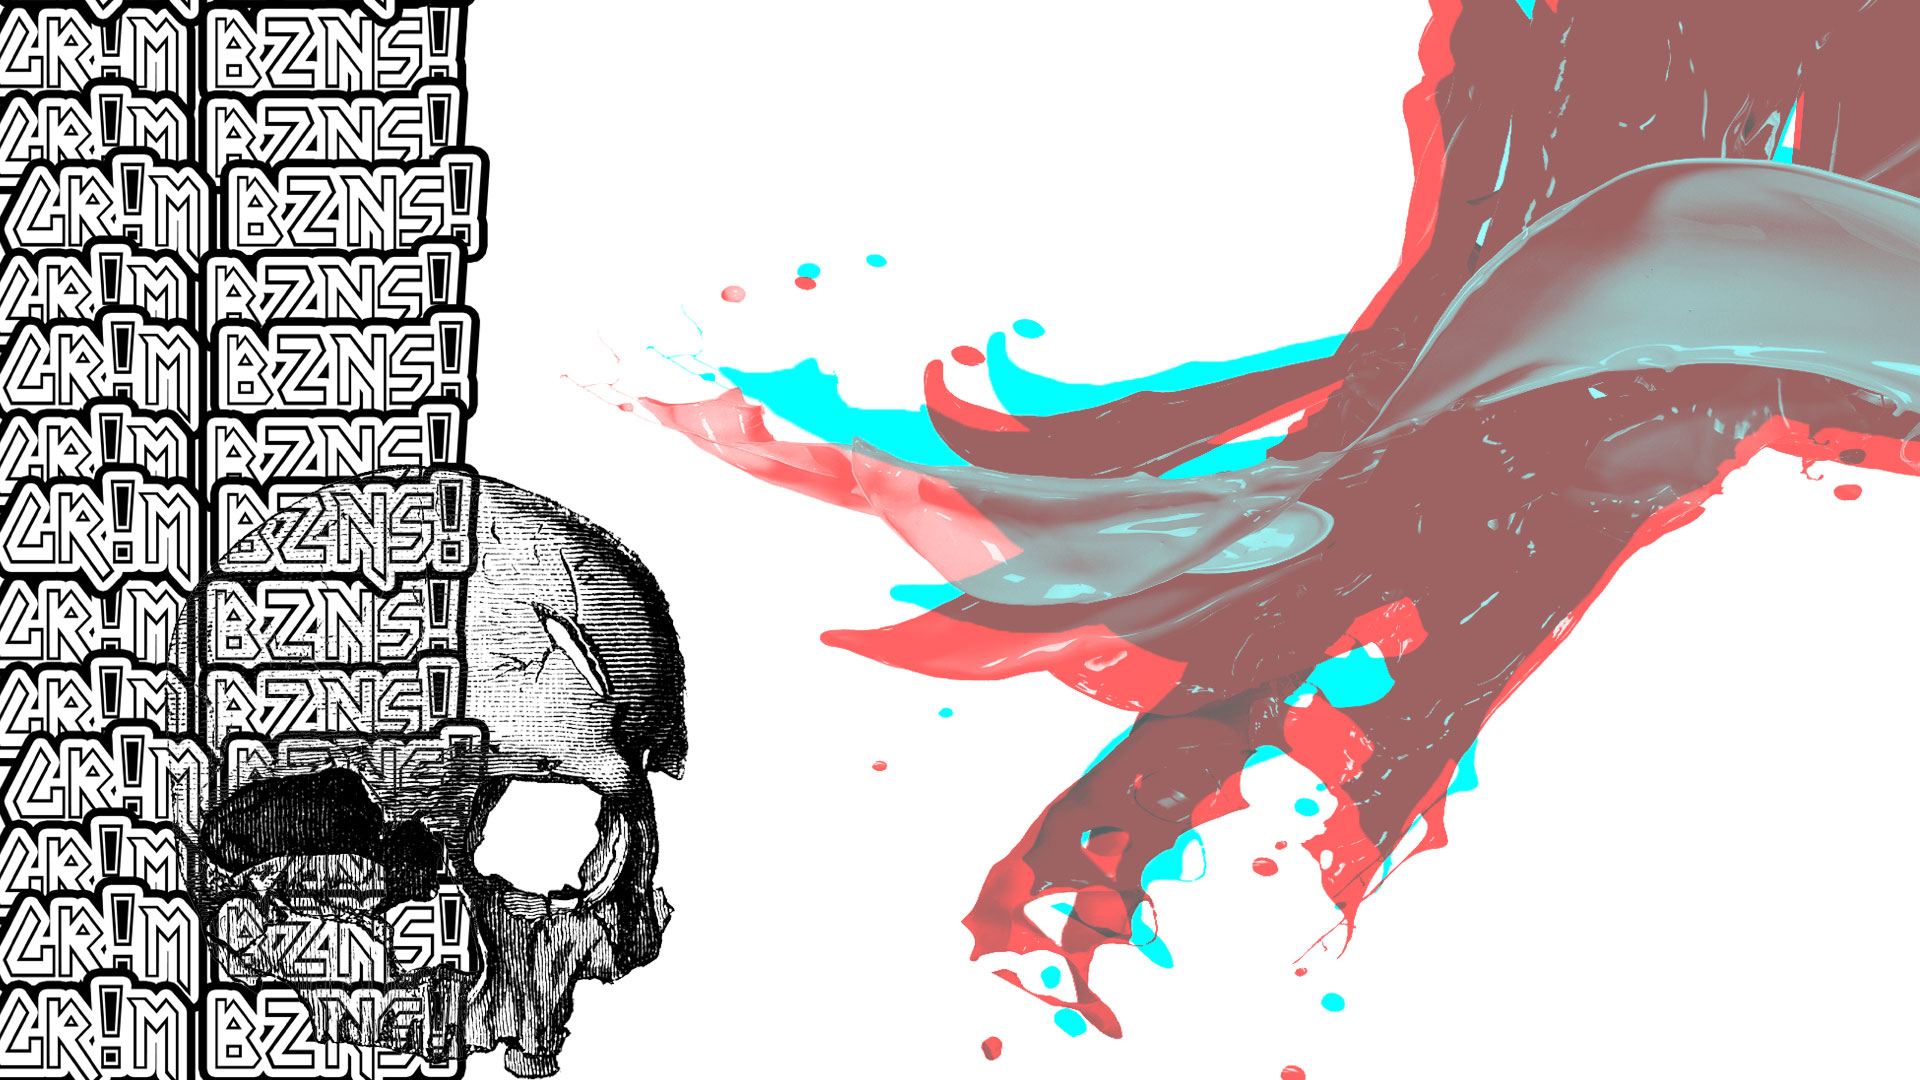
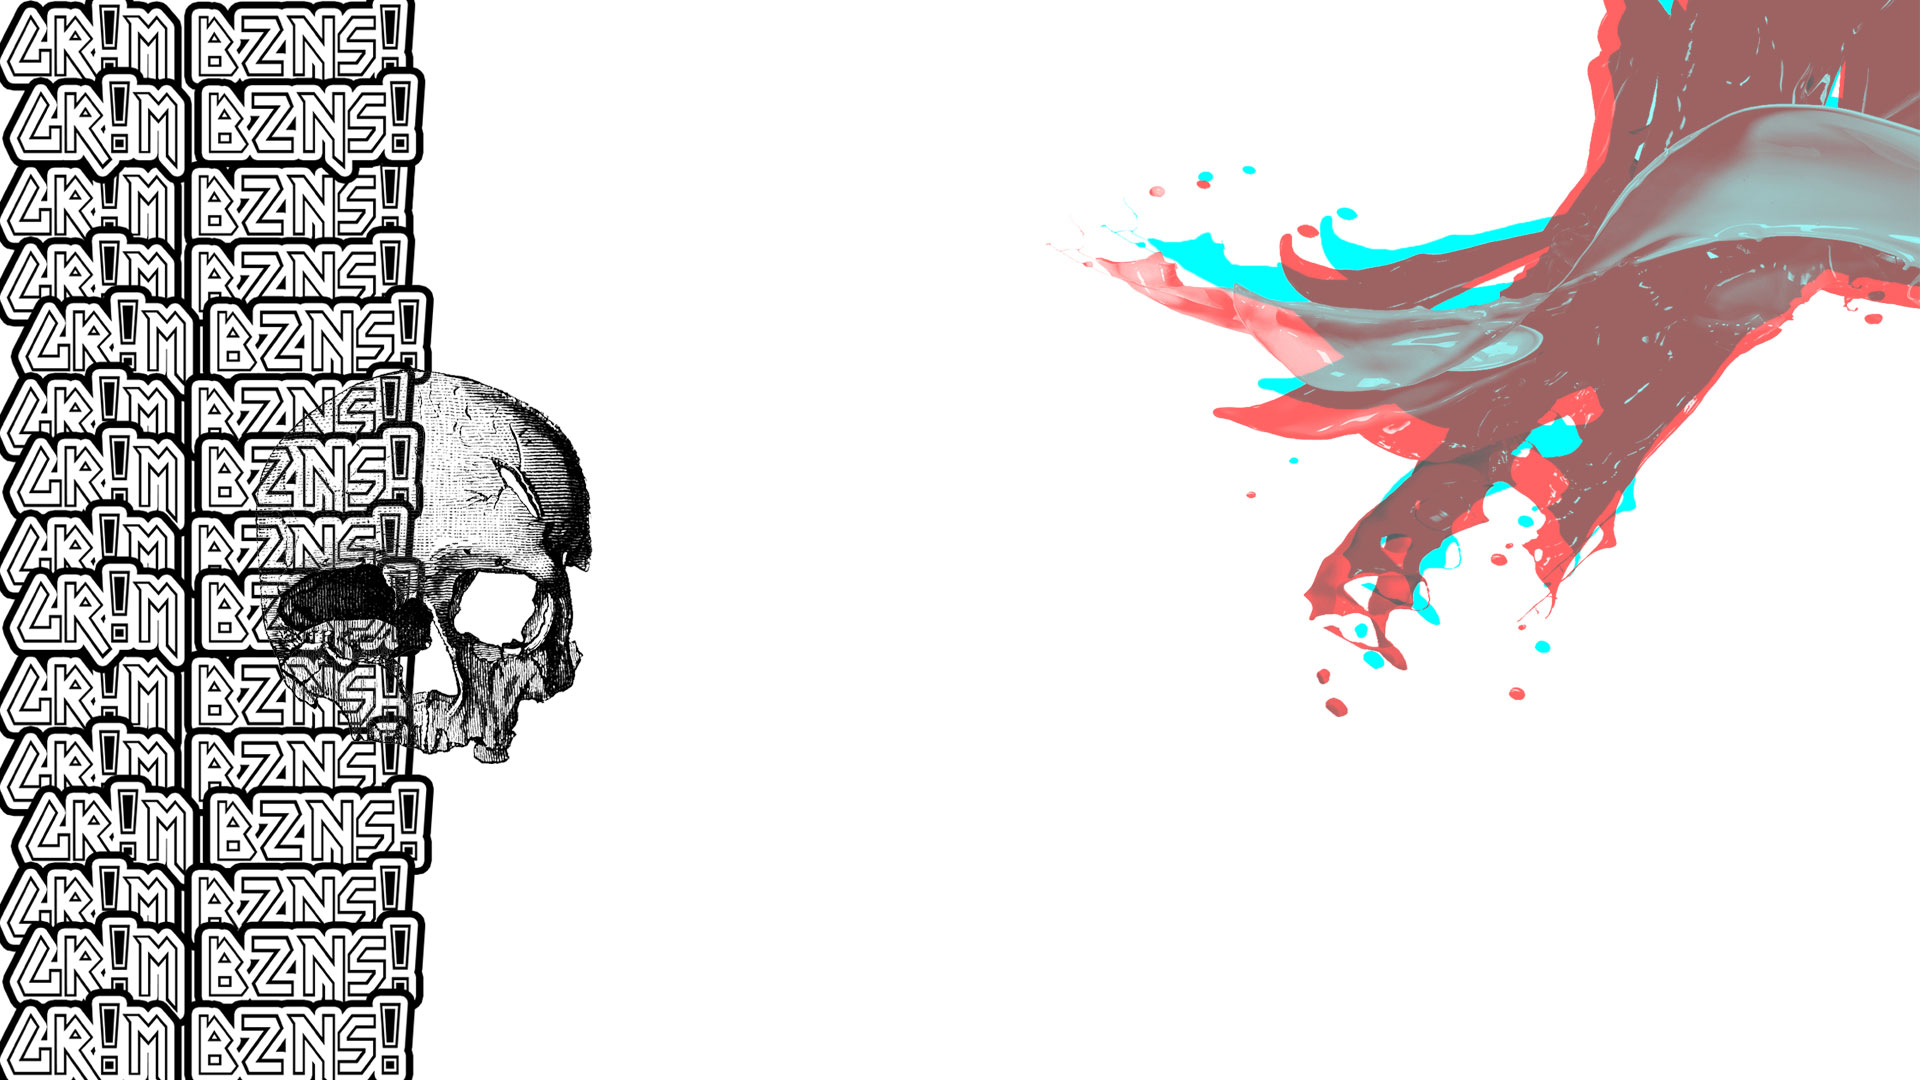
messed with background

diff --git a/assets/styles.css b/assets/styles.css
@@ -1,33 +1,32 @@
 * {
-    margin: 0;
-    padding: 0;
+	margin: 0;
+	padding: 0;
 }
 
 nav {
-    display: flex;
-    align-items: center;
+	display: flex;
+	align-items: center;
 	width: 100%;
-    background-color: red;
-    height:50px;
-    width:100%;
+	width: 100%;
+	height: 50px;
+	background-color: red;
 }
 nav img {
-    margin-left: 75px;
+	margin-left: 75px;
 }
 nav ul {
-    list-style-type: none;
-    margin-left: 75px;
+	margin-left: 75px;
+	list-style-type: none;
 }
 nav ul li {
-    float: left;
-    padding: 25px;
+	float: left;
+	padding: 25px;
 }
 
 nav a {
-    text-decoration: none;
-    color:white;
+	text-decoration: none;
+	color: white;
 }
-body {
-    background-image: url(images/background.jpg);
-    background-size: cover;
+html {
+    background: url(images/background.jpg) no-repeat top left fixed;
 }

diff --git a/index.html b/index.html
@@ -15,10 +15,10 @@
         <nav>
             <img src="assets/images/logo.png" alt="brand-logo" style="float: left; height:80%;">
             <ul>
-                <li><a href="/music.html">Music</a></li>
-                <li><a href="/videos">Videos</a></li>
-                <li><a href="/art.html">Art</a></li>
-                <li><a href="/contact.html">Contact</a></li>
+                <li><a href="music.html">Music</a></li>
+                <li><a href="videos">Videos</a></li>
+                <li><a href="art.html">Art</a></li>
+                <li><a href="contact.html">Contact</a></li>
             </ul>
         </nav>
     </header>
